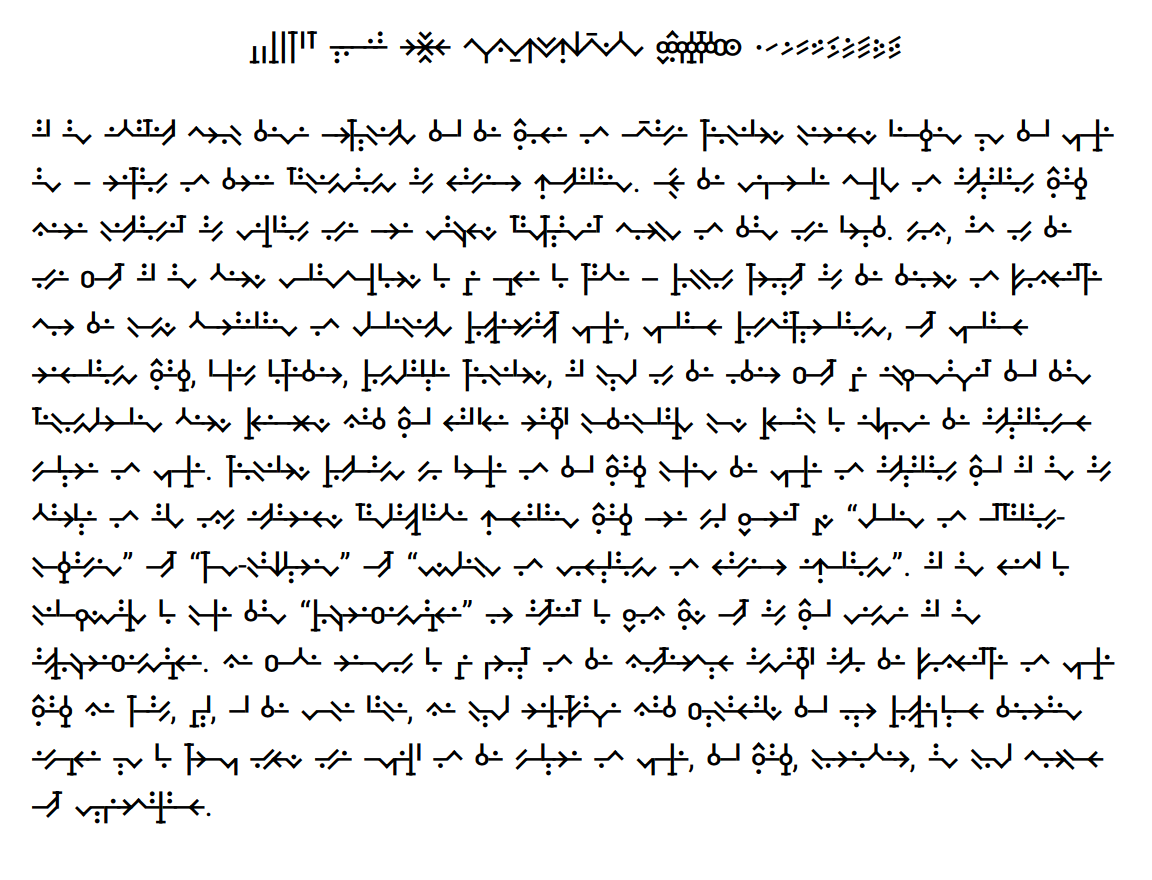
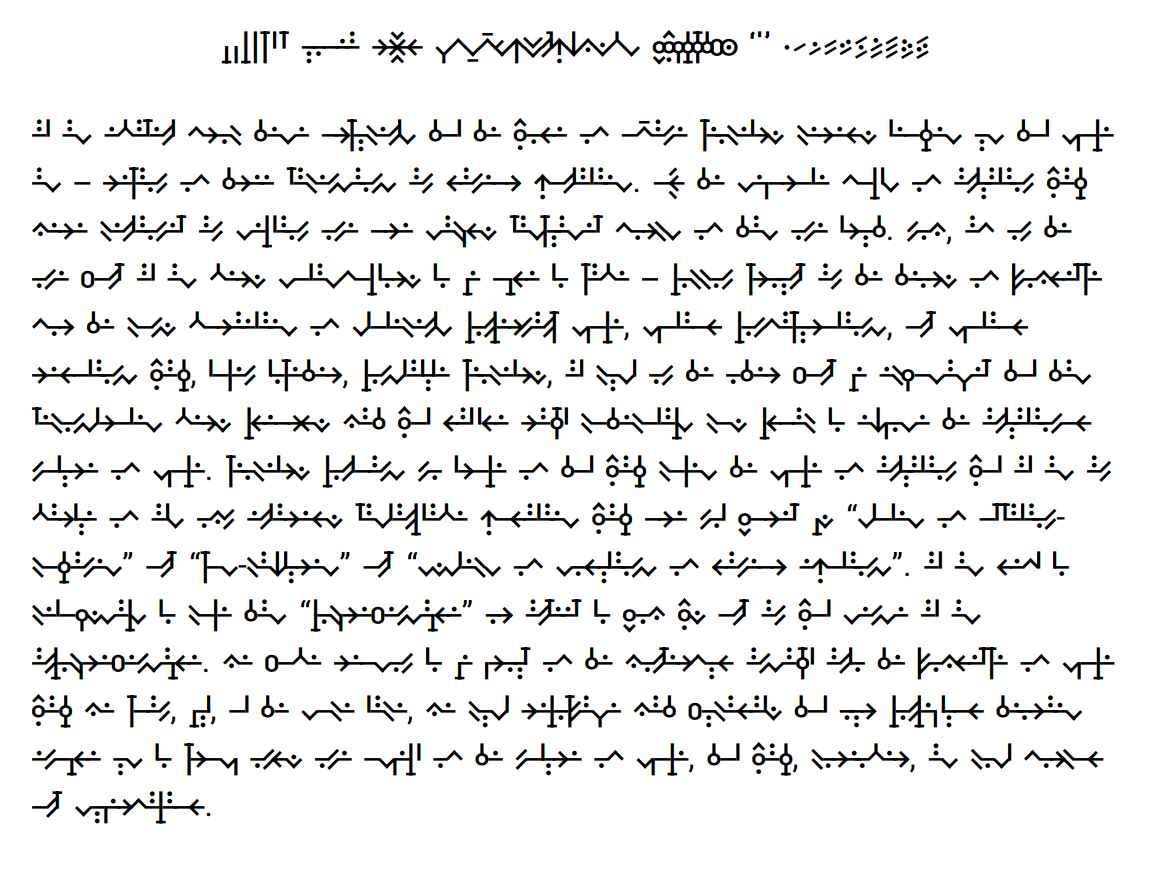
Add single quotes

Changed region(s): [[0.1875, 0.0307, 0.8125, 0.092]]

diff --git a/specimen/specimen.html b/specimen/specimen.html
@@ -54,7 +54,7 @@
   </head>
   <body>
     <section class="affine" style="line-height: 1;text-align: center;">
-      <p>bpckgtd uoaei rrrlll fzwssqmnquxffyvs shwhphchghthhj 0123456789</p>
+      <p>bpckgtd uoaei rrrlll zfssff’sqmnn’tquxwyvs shwhphchghthhj ‘'’ 0123456789</p>
     </section>
 
     <div class="screen-two-up">
